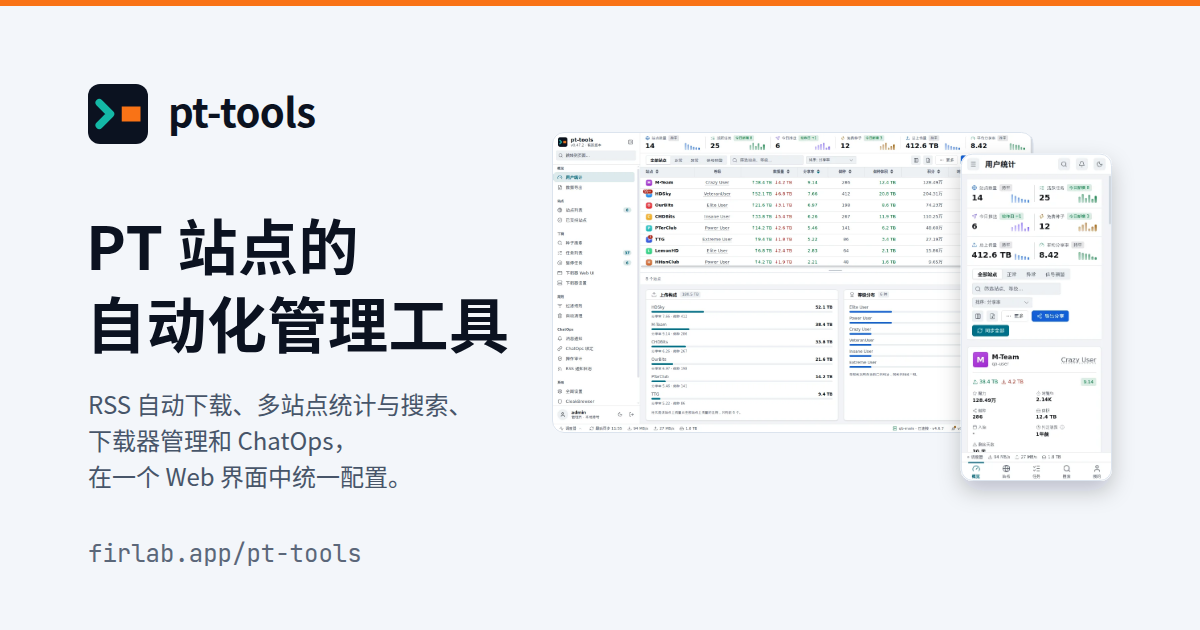
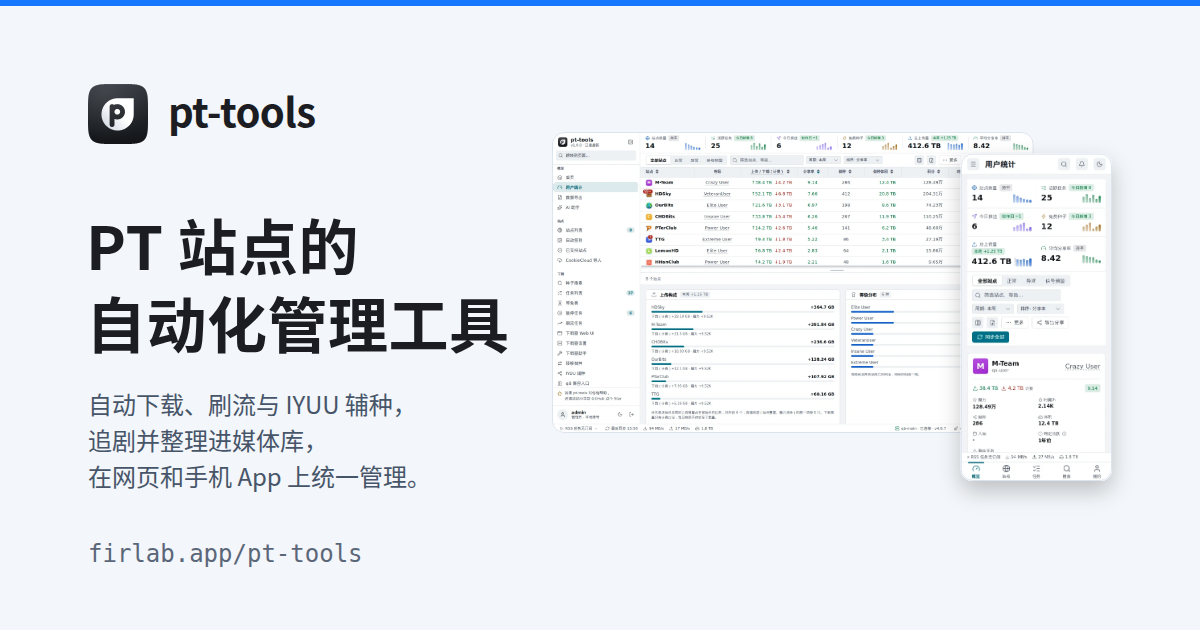
feat(pt-tools): 1.0 正式版：文档站改回跟 main，深色页面用纯白标志，产品介绍与分享图按 1.0 更新

diff --git a/pt-tools/src/.vitepress/config/en.ts b/pt-tools/src/.vitepress/config/en.ts
@@ -3,16 +3,14 @@ import { defineConfig, type DefaultTheme } from 'vitepress';
 import synced from '../synced.json';
 
 const REPO = 'https://github.com/sunerpy/pt-tools';
-// The docs are published from the 1.0 preview: pages and the changelog come from the v1.0.0-rc
-// branch. Switch back to main once 1.0 is merged there (zh.ts too).
-const DOCS_BRANCH = 'v1.0.0-rc';
+const DOCS_BRANCH = 'main';
 
 const sidebar: DefaultTheme.SidebarItem[] = [
   {
     text: 'Getting started',
     items: [
       { text: 'What is pt-tools', link: '/en/guide/what-is-pt-tools' },
-      { text: "What's new in the 1.0 preview", link: '/en/guide/whats-new-1.0' },
+      { text: "What's new in 1.0", link: '/en/guide/whats-new-1.0' },
       { text: 'Install', link: '/en/guide/install' },
       { text: 'Quick start', link: '/en/guide/quick-start' },
       { text: 'Home page and system check', link: '/en/guide/home-and-health' },
@@ -167,7 +165,7 @@ export const en = defineConfig({
     editLink: {
       // VitePress serialises this function into the client bundle with toString(), so it
       // cannot close over REPO: the address is written out in full.
-      pattern: ({ filePath }) => `https://github.com/sunerpy/pt-tools/edit/v1.0.0-rc/docs/${filePath}`,
+      pattern: ({ filePath }) => `https://github.com/sunerpy/pt-tools/edit/main/docs/${filePath}`,
       text: 'Edit this page on GitHub',
     },
 

diff --git a/pt-tools/src/.vitepress/config/zh.ts b/pt-tools/src/.vitepress/config/zh.ts
@@ -3,15 +3,14 @@ import { defineConfig, type DefaultTheme } from 'vitepress';
 import synced from '../synced.json';
 
 const REPO = 'https://github.com/sunerpy/pt-tools';
-// 文档按 1.0 预览版发布，页面与更新日志取自 v1.0.0-rc 分支；1.0 合回 main 以后改回 main（en.ts 同）。
-const DOCS_BRANCH = 'v1.0.0-rc';
+const DOCS_BRANCH = 'main';
 
 const sidebar: DefaultTheme.SidebarItem[] = [
   {
     text: '开始使用',
     items: [
       { text: 'pt-tools 是什么', link: '/guide/what-is-pt-tools' },
-      { text: '1.0 预览版新功能', link: '/guide/whats-new-1.0' },
+      { text: '1.0 新功能', link: '/guide/whats-new-1.0' },
       { text: '安装', link: '/guide/install' },
       { text: '快速开始', link: '/guide/quick-start' },
       { text: '首页与系统体检', link: '/guide/home-and-health' },
@@ -165,7 +164,7 @@ export const zh = defineConfig({
     editLink: {
       // VitePress serialises this function into the client bundle with toString(), so it
       // cannot close over REPO: the address is written out in full.
-      pattern: ({ filePath }) => `https://github.com/sunerpy/pt-tools/edit/v1.0.0-rc/docs/${filePath}`,
+      pattern: ({ filePath }) => `https://github.com/sunerpy/pt-tools/edit/main/docs/${filePath}`,
       text: '在 GitHub 上编辑此页',
     },
 

diff --git a/src/i18n/products.ts b/src/i18n/products.ts
@@ -133,8 +133,8 @@ export const products: Product[] = [
     repo: 'https://github.com/sunerpy/pt-tools',
     page: { href: { 'zh-cn': '/pt-tools/', en: '/pt-tools/en/' } },
     tagline: {
-      'zh-cn': 'PT 站点的 RSS 订阅下载、跨站搜索、数据统计和种子清理，自部署在自己的服务器或 NAS 上；1.0 预览版加入了刷流、IYUU 辅种、媒体库整理和手机 App。',
-      en: 'RSS downloads, cross-site search, statistics and torrent cleanup for private trackers, self-hosted on your own server or NAS; the 1.0 preview adds seed boosting, IYUU cross-seeding, media library organising and a mobile app.',
+      'zh-cn': 'PT 站点的 RSS 订阅下载、跨站搜索、数据统计和种子清理，自部署在自己的服务器或 NAS 上；1.0 加入了刷流、IYUU 辅种、媒体库整理和手机 App。',
+      en: 'RSS downloads, cross-site search, statistics and torrent cleanup for private trackers, self-hosted on your own server or NAS; 1.0 adds seed boosting, IYUU cross-seeding, media library organising and a mobile app.',
     },
   },
   {

diff --git a/pt-tools/src/.vitepress/config/shared.ts b/pt-tools/src/.vitepress/config/shared.ts
@@ -91,7 +91,7 @@ const ZH_ALERT_TITLES: Record<string, string> = {
 
 export const shared = defineConfig({
   title: 'pt-tools',
-  description: '面向 PT 站点的自动化管理工具：RSS 自动下载、多站点统计与搜索、下载器管理和 ChatOps。',
+  description: '面向 PT 站点的自动化管理工具：RSS 自动下载、刷流与 IYUU 辅种、媒体库整理、多站点统计与下载器管理，手机 App 和 QQ、Telegram 上的 ChatOps。',
   lang: 'zh-CN',
   base: BASE,
 
@@ -227,7 +227,7 @@ export const shared = defineConfig({
   },
 
   themeConfig: {
-    logo: { src: '/pt-tools-logo.svg', alt: '' },
+    logo: { light: '/pt-tools-logo.svg', dark: '/pt-tools-logo-dark.svg', alt: '' },
     externalLinkIcon: true,
 
     socialLinks: [{ icon: 'github', link: 'https://github.com/sunerpy/pt-tools' }],

diff --git a/pt-tools/src/.vitepress/theme/data/home-schema.ts b/pt-tools/src/.vitepress/theme/data/home-schema.ts
@@ -18,7 +18,7 @@ export type { IconName } from './icons';
 /**
  * Maturity. `experimental` is what Voltip's site does not need: a feature that ships but
  * has not been verified end to end (pt-tools' WeCom and generic webhook channels).
- * `preview` is shipped in the 1.0 preview releases (v1.0.0-rc.N) and not yet in a stable one.
+ * `preview` is shipped in a preview release (X.Y.Z-rc.N) and not yet in a stable one.
  */
 export type Status = 'available' | 'preview' | 'experimental' | 'building' | 'planned';
 export const STATUSES: readonly Status[] = ['available', 'preview', 'experimental', 'building', 'planned'];
